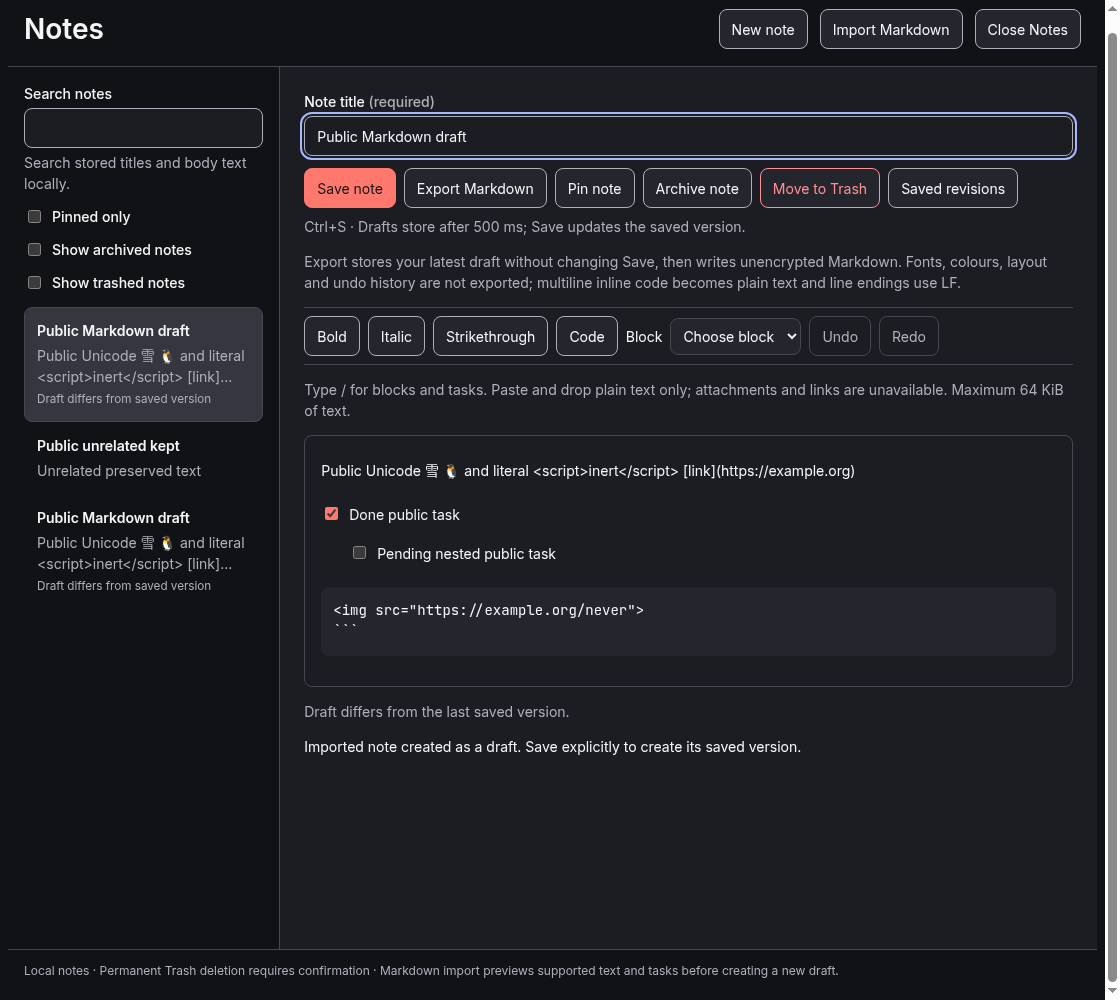
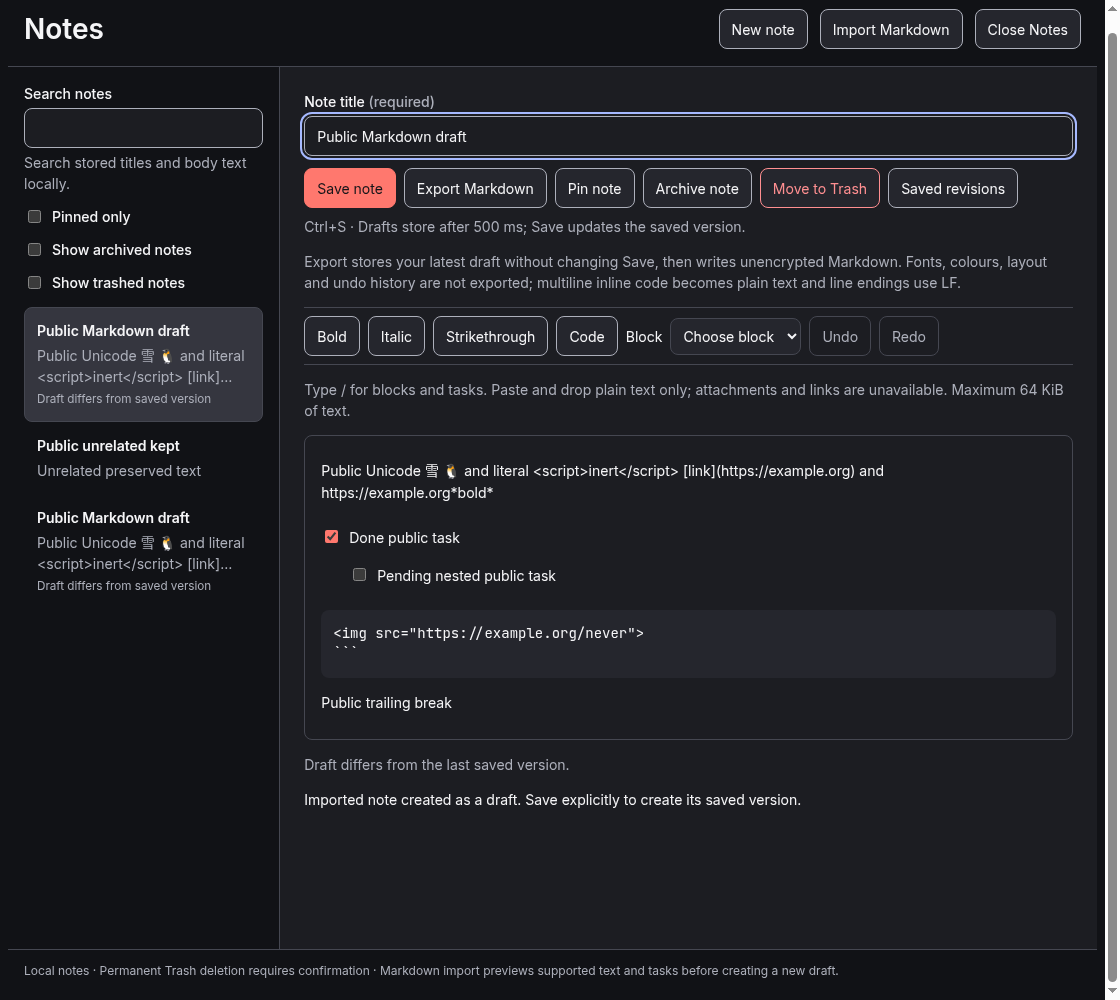
fix(notes): preserve URL escapes and terminal hard breaks on import

Changed region(s): [[0.2812, 0.682, 0.7188, 0.806], [0.2812, 0.465, 0.5625, 0.651]]

diff --git a/packages/notes/src/markdown.ts b/packages/notes/src/markdown.ts
@@ -10,7 +10,9 @@ export const NOTE_MARKDOWN_MAX_BYTES=524288;
 export const NOTE_MARKDOWN_NOTICE='Linuxcast Markdown export: preserves note text and tasks. Editor fonts, colours, layout and undo history are not exported. Multiline inline code exports as plain text. Line endings normalize to LF. This file is unencrypted.';
 class NotesMarkdownManager extends MarkdownManager{
  override renderNodeToMarkdown(node:JSONContent,parent?:JSONContent,index=0,level=0,meta:Record<string,unknown>={}):string{
-  if(node.type==='hardBreak')return '\\\n';
+  // CommonMark cannot retain a structural break at a paragraph's end. Export
+  // that terminal LF as text, without the structural break's backslash marker.
+  if(node.type==='hardBreak')return parent?.content?.slice(index+1).every(child=>child.type==='hardBreak')?'&#10;':'\\\n';
   if(node.type==='codeBlock'){const text=(node.content??[]).map(child=>child.text??'').join('').replace(/\r\n?/gu,'\n'),fence='`'.repeat(Math.max(3,...Array.from(text.matchAll(/`+/gu),match=>match[0].length+1)));return fence+String(node.attrs?.language??'')+'\n'+text+'\n'+fence;}
   if(node.type==='paragraph'||node.type==='heading'){
    const prefix=node.type==='heading'?'#'.repeat(Number(node.attrs?.level??1))+' ':'';
@@ -26,13 +28,26 @@ class NotesMarkdownManager extends MarkdownManager{
 // an autolink and adjacent text (URL&#10 + ;). Rejoin only these literal runs
 // before the maintained text handlers decode entities once. Escapes/code stay
 // separate, and explicit links are still refused by the lexer admission check.
-function literalTextTokens(tokens:MarkdownToken[]):MarkdownToken[]{
- const result:MarkdownToken[]=[];
+function literalTextTokens(tokens:MarkdownToken[],tokenizeInline:(source:string)=>MarkdownToken[]):MarkdownToken[]{
+ const result:MarkdownToken[]=[];let text='',hasUrl=false;
+ const flush=()=>{
+  if(!text)return;
+  // GFM can also split an escape pair across URL/text tokens. Rejoin the run
+  // first, then let the maintained inline lexer recognize each escape pair.
+  // Escape tokens remain separate from text to prevent double entity decoding.
+  let start=0,cursor=0;
+  if(hasUrl)while((cursor=text.indexOf('\\',cursor))!==-1){
+   const pair=tokenizeInline(text.slice(cursor,cursor+2)),escape=pair.length===1&&pair[0]?.type==='escape'?pair[0]:undefined;
+   if(escape){if(cursor>start)result.push({type:'text',text:text.slice(start,cursor)});result.push(escape);cursor+=2;start=cursor;}else cursor++;
+  }
+  if(start<text.length)result.push({type:'text',text:text.slice(start)});
+  text='';hasUrl=false;
+ };
  for(const token of tokens){
-  if(token.type==='text'&&!token.tokens||token.type==='link'&&token.raw===token.text){const previous=result.at(-1);if(previous?.type==='text'&&!previous.tokens)previous.text=(previous.text??'')+(token.text??'');else result.push({type:'text',text:token.text??''});}
-  else result.push(token);
+  if(token.type==='text'&&!token.tokens||token.type==='link'&&token.raw===token.text){text+=token.text??'';hasUrl||=token.type==='link';}
+  else {flush();result.push(token);}
  }
- return result;
+ flush();return result;
 }
 const extensions=flattenExtensions([StarterKit.configure({heading:{levels:[1,2,3]},link:false,underline:false,trailingNode:false}),TaskList,TaskItem.configure({nested:true})]).map(extension=>extension.extend({
  // Already flattened: keep each node (including nested TaskItem), without
@@ -40,7 +55,8 @@ const extensions=flattenExtensions([StarterKit.configure({heading:{levels:[1,2,3
  addExtensions:()=>[],
  ...(getExtensionField(extension,'parseMarkdown')?{parseMarkdown(token,helpers){
   if(this.name==='text')return {type:'text',text:decodeHtmlEntities(token.text||'')};
-  return this.parent!(token,{...helpers,parseInline:tokens=>helpers.parseInline(literalTextTokens(tokens)),parseChildren:tokens=>helpers.parseChildren(literalTextTokens(tokens))});
+  const tokenizeInline=helpers.tokenizeInline;if(!tokenizeInline)throw new Error('Markdown inline tokenization is unavailable.');
+  return this.parent!(token,{...helpers,parseInline:tokens=>helpers.parseInline(literalTextTokens(tokens,tokenizeInline)),parseChildren:tokens=>helpers.parseChildren(literalTextTokens(tokens,tokenizeInline))});
  }}:{}),
 }));
 const manager=new NotesMarkdownManager({extensions,markedOptions:{gfm:true},indentation:{style:'space',size:2}});

diff --git a/apps/desktop/tests/notes-markdown-import.integration.test.ts b/apps/desktop/tests/notes-markdown-import.integration.test.ts
@@ -16,7 +16,7 @@ const root=resolve(dirname(fileURLToPath(import.meta.url)),'../../..'),executabl
 let application:ElectronApplication|undefined,temporary='';
 afterEach(async()=>{if(application){const child=application.process(),timer=setTimeout(()=>{if(child.exitCode===null)child.kill('SIGKILL');},3000);try{await application.close().catch(()=>{if(child.exitCode===null)child.kill('SIGKILL');});}finally{clearTimeout(timer);}}application=undefined;if(temporary)rmSync(temporary,{recursive:true,force:true});});
 const paragraph=(text:string):NoteNode=>({type:'paragraph',content:[{type:'text',text}]});
-const body:NoteContent['document']={type:'doc',content:[paragraph('\nPublic Unicode 雪 🐧 and literal <script>inert</script> [link](https://example.org)\n'),{type:'taskList',content:[{type:'taskItem',attrs:{checked:true},content:[paragraph('Done public task'),{type:'taskList',content:[{type:'taskItem',attrs:{checked:false},content:[paragraph('Pending nested public task')]}]}]}]},{type:'codeBlock',attrs:{language:'text'},content:[{type:'text',text:'<img src="https://example.org/never">\n```'}]}]};
+const body:NoteContent['document']={type:'doc',content:[paragraph('\nPublic Unicode 雪 🐧 and literal <script>inert</script> [link](https://example.org) and https://example.org*bold*\n'),{type:'taskList',content:[{type:'taskItem',attrs:{checked:true},content:[paragraph('Done public task'),{type:'taskList',content:[{type:'taskItem',attrs:{checked:false},content:[paragraph('Pending nested public task')]}]}]}]},{type:'codeBlock',attrs:{language:'text'},content:[{type:'text',text:'<img src="https://example.org/never">\n```'}]},{type:'paragraph',content:[{type:'text',text:'Public trailing break'},{type:'hardBreak'}]}]};
 async function stored(page:Page,id:string){return page.evaluate(async id=>{const reply=await(window as unknown as {linuxcastNotes:NotesApi}).linuxcastNotes.get(id);if(!reply.ok)throw new Error('Stored note unavailable.');return reply.value;},id);}
 async function records(page:Page){return page.evaluate(async()=>{const reply=await(window as unknown as {linuxcastNotes:NotesApi}).linuxcastNotes.list({query:''});if(!reply.ok)throw new Error('Stored list unavailable.');return reply.value.records;});}
 it('exports, reviews and separately imports actual Markdown text/tasks through Notes, preserving unrelated sources across root search and restart',async()=>{

diff --git a/packages/notes/tests/import-markdown.test.ts b/packages/notes/tests/import-markdown.test.ts
@@ -4,6 +4,14 @@ import type {NoteContent,NoteNode} from '@linuxcast/contracts';
 import {exportNoteMarkdown,importNoteMarkdown,NOTE_MARKDOWN_MAX_BYTES,NOTE_MARKDOWN_NOTICE} from '../src/markdown.ts';
 const paragraph=(text:string):NoteNode=>({type:'paragraph',content:[{type:'text',text}]});
 const tasks=(node:NoteNode):boolean[]=>[...(node.type==='taskItem'?[node.attrs!.checked as boolean]:[]),...(node.content??[]).flatMap(tasks)];
+it.each(['https://example.org*bold*','https://example.org[brackets]','https://example.org`code`','https://example.org\\path\\','https://example.org\\*literal*','www.example.org*literal*','public@example.org*literal*'])('preserves escaped punctuation consumed by bare URLs: %j',text=>{
+ const note:NoteContent={title:'Public URL punctuation',document:{type:'doc',content:[paragraph(text)]}},before=structuredClone(note),exported=exportNoteMarkdown(note),result=importNoteMarkdown(exported);
+ expect(notePlainText(result.document)).toBe(text);expect(exportNoteMarkdown(result)).toBe(exported);expect(note).toEqual(before);
+});
+it.each<NoteNode[]>([[{type:'text',text:'End'},{type:'hardBreak'}],[{type:'hardBreak'}],[{type:'hardBreak'},{type:'hardBreak'}],[{type:'text',text:'https://example.org*literal*'},{type:'hardBreak'}],[{type:'text',text:'End\n'},{type:'hardBreak'},{type:'hardBreak'}]])('preserves trailing and break-only editor paragraphs: %j',(...content)=>{
+ const note:NoteContent={title:'Public trailing breaks',document:{type:'doc',content:[{type:'paragraph',content}]}},before=structuredClone(note),exported=exportNoteMarkdown(note),result=importNoteMarkdown(exported);
+ expect(notePlainText(result.document)).toBe(notePlainText(note.document));expect(notePlainText(importNoteMarkdown(exportNoteMarkdown(result)).document)).toBe(notePlainText(note.document));expect(note).toEqual(before);
+});
 it.each(['# Empty note','# Leaves\n\n---\n\nfirst\\\nsecond','# Tasks\n\n- [x] Done\n  - [ ] Pending','# Code\n\n```text\n&amp; &#10; <script>literal</script>\n```'])('produces a JSON-safe actual notes.write repository request for %j',source=>{
  const content=importNoteMarkdown(source),request={schemaVersion:1,requestId:'public-import-write',method:'notes.write',params:{id:'11111111-1111-4111-8111-111111111111',expectedRevision:0,action:'draft',content}};
  expect(parseRepositoryRequest(request,notesRepositoryContracts)).toEqual(request);

diff --git a/docs/implementation/tasks/U1-01.md b/docs/implementation/tasks/U1-01.md
@@ -81,6 +81,10 @@ Shared contracts, dependency manifests, lockfiles, migration numbering and task 
     Outcome: Partial: imported draft uses exact owner receipt/stable UUID, preserves outgoing saved/draft/flags, supports edit/Save/root navigation and persists through Quit/restart. Actual production import5.302s and retained Notes crash/recovery29.636s PASS. Full task/native/release acceptance pending.
     Platform/backend: Pop!_OS22.04 amd64/Linux7.1.1; pinned Node24.22.1/Bun1.4.4/Electron45/SQLite3.53.4/Tiptap3.32.0; owned private XvfbX11 and Chromium fixtures, native chooser choices instrumented. Not Debian/session/nativeAT acceptance.
     Reference: apps/desktop/evidence/notes-markdown-import-application.md; packages/notes/evidence/markdown-import-ui.md; PR77 https://github.com/ianwijma/linuxcast/pull/77
+  - Command/check: `Final mapped U1-01 unit/contracts/security/UI/integration;57 parser/export checks; independent b3ea4d4 review and coordinator regression disposition`.
+    Outcome: Partial: independent SOL6.1/high review found two P2 roundtrip bugs; both reproduced/fixed with12new cases,11initiallyred. URL-consumed/split escape pairs use maintained lexer; terminal hard breaks preserve LF text.481unit/36contract/258security/88browser/40integration PASS, actualimport5.237s includes both findings and unchanged byteidentical secondexport/exactowner/restart assertions.12publiccaptures axe0;741historicalPNG unchanged. No second independent clean review or full task/native/release acceptance claimed.
+    Platform/backend: Pop!_OS22.04 amd64/Linux7.1.1; Node24.22.1/Bun1.4.4/Electron45/SQLite3.53.4/Tiptap3.32.0; privateXvfbX11 and Chromium. Native chooser choices instrumented; not supported Debian/session/nativeAT acceptance.
+    Reference: apps/desktop/evidence/notes-markdown-import-application.md; PR77 https://github.com/ianwijma/linuxcast/pull/77
 - [ ] **pending** `U1-01-AC02` — Markdown round trip preserves text/tasks and declares unsupported styling.
   - Command/check: `bun run test:unit -- U1-01; LINUXCAST_PRIVATE_DISPLAY=1 xvfb-run -a bun run test:integration -- U1-01`.
     Outcome: Partial: explicit latest-draft Markdown export writes real private file with unchanged saved version, no overwrite and cancellation; 12 bounded serializer text/task fixtures pass. Full application import/Markdown roundtrip and native chooser acceptance remain pending. Export integrated in PR58; full application import/roundtrip acceptance remains pending.
@@ -90,6 +94,10 @@ Shared contracts, dependency manifests, lockfiles, migration numbering and task 
     Outcome: Partial: actual application export/import/re-export preserves Unicode, boundary LF, escaped HTML/link literals, checked/nested unchecked tasks and code; second export byte-identical and unsupported editor styling disclosed before Create. Strict notes.write JSON-envelope and combined escaping regressions pass. Broader Markdown/native chooser/task acceptance remains pending.
     Platform/backend: Pop!_OS22.04 amd64/Linux7.1.1; pinned Node24.22.1/Bun1.4.4/Electron45/SQLite3.53.4/Tiptap3.32.0; owned private XvfbX11 and Chromium fixtures, native chooser choices instrumented. Not Debian/session/nativeAT acceptance.
     Reference: apps/desktop/evidence/notes-markdown-import-application.md; packages/notes/evidence/markdown-import-ui.md; PR77 https://github.com/ianwijma/linuxcast/pull/77
+  - Command/check: `Final mapped U1-01 unit/contracts/security/UI/integration;57 parser/export checks; independent b3ea4d4 review and coordinator regression disposition`.
+    Outcome: Partial: independent SOL6.1/high review found two P2 roundtrip bugs; both reproduced/fixed with12new cases,11initiallyred. URL-consumed/split escape pairs use maintained lexer; terminal hard breaks preserve LF text.481unit/36contract/258security/88browser/40integration PASS, actualimport5.237s includes both findings and unchanged byteidentical secondexport/exactowner/restart assertions.12publiccaptures axe0;741historicalPNG unchanged. No second independent clean review or full task/native/release acceptance claimed.
+    Platform/backend: Pop!_OS22.04 amd64/Linux7.1.1; Node24.22.1/Bun1.4.4/Electron45/SQLite3.53.4/Tiptap3.32.0; privateXvfbX11 and Chromium. Native chooser choices instrumented; not supported Debian/session/nativeAT acceptance.
+    Reference: apps/desktop/evidence/notes-markdown-import-application.md; PR77 https://github.com/ianwijma/linuxcast/pull/77
 - [ ] **pending** `U1-01-UI` — Relevant design states and keyboard/accessibility paths are covered for user-facing changes.
   - Applies when: This task introduces or changes user-facing behaviour.
   - Command/check: `bun run test:ui -- U1-01; bun run test:unit -- U1-01`.
@@ -136,6 +144,10 @@ Shared contracts, dependency manifests, lockfiles, migration numbering and task 
     Outcome: Partial: all88 mapped browser cases PASS together43.1s, including8import cases covering readonly review, Cancel/Escape, once-only Create, pending/unknown/manual recovery/unavailable/200percent/focus. Eight component+fouractual dark/light captures axe0. Independent final review pending; nativeAT/highcontrast/session acceptance remains pending.
     Platform/backend: Pop!_OS22.04 amd64/Linux7.1.1; pinned Node24.22.1/Bun1.4.4/Electron45/SQLite3.53.4/Tiptap3.32.0; owned private XvfbX11 and Chromium fixtures, native chooser choices instrumented. Not Debian/session/nativeAT acceptance.
     Reference: apps/desktop/evidence/notes-markdown-import-application.md; packages/notes/evidence/markdown-import-ui.md; PR77 https://github.com/ianwijma/linuxcast/pull/77
+  - Command/check: `Final mapped U1-01 unit/contracts/security/UI/integration;57 parser/export checks; independent b3ea4d4 review and coordinator regression disposition`.
+    Outcome: Partial: independent SOL6.1/high review found two P2 roundtrip bugs; both reproduced/fixed with12new cases,11initiallyred. URL-consumed/split escape pairs use maintained lexer; terminal hard breaks preserve LF text.481unit/36contract/258security/88browser/40integration PASS, actualimport5.237s includes both findings and unchanged byteidentical secondexport/exactowner/restart assertions.12publiccaptures axe0;741historicalPNG unchanged. No second independent clean review or full task/native/release acceptance claimed.
+    Platform/backend: Pop!_OS22.04 amd64/Linux7.1.1; Node24.22.1/Bun1.4.4/Electron45/SQLite3.53.4/Tiptap3.32.0; privateXvfbX11 and Chromium. Native chooser choices instrumented; not supported Debian/session/nativeAT acceptance.
+    Reference: apps/desktop/evidence/notes-markdown-import-application.md; PR77 https://github.com/ianwijma/linuxcast/pull/77
 - [ ] **pending** `U1-01-PRIVACY` — No secrets/private content enter fixtures, diagnostics or screenshots.
   - Command/check: `bun run test:security -- U1-01; production Notes integration privacy assertions and capture/source inspection`.
     Outcome: Partial: public synthetic-onlyfixtures/captures, owner sourceprivacy/export separation and literalno-network/noexecution assertions PASS; remaining task scope still pending.
@@ -181,6 +193,10 @@ Shared contracts, dependency manifests, lockfiles, migration numbering and task 
     Outcome: Partial: selected source path never reaches renderer; closed bounded local parser, no resources/rendererHTTP(S), no sourcepath/content/UUID in command usage export, exact source/unrelated records preserved. Public synthetic fixtures/captures;258security and actual application privacy checks PASS. Remaining task/release privacy scope pending.
     Platform/backend: Pop!_OS22.04 amd64/Linux7.1.1; pinned Node24.22.1/Bun1.4.4/Electron45/SQLite3.53.4/Tiptap3.32.0; owned private XvfbX11 and Chromium fixtures, native chooser choices instrumented. Not Debian/session/nativeAT acceptance.
     Reference: apps/desktop/evidence/notes-markdown-import-application.md; packages/notes/evidence/markdown-import-ui.md; PR77 https://github.com/ianwijma/linuxcast/pull/77
+  - Command/check: `Final mapped U1-01 unit/contracts/security/UI/integration;57 parser/export checks; independent b3ea4d4 review and coordinator regression disposition`.
+    Outcome: Partial: independent SOL6.1/high review found two P2 roundtrip bugs; both reproduced/fixed with12new cases,11initiallyred. URL-consumed/split escape pairs use maintained lexer; terminal hard breaks preserve LF text.481unit/36contract/258security/88browser/40integration PASS, actualimport5.237s includes both findings and unchanged byteidentical secondexport/exactowner/restart assertions.12publiccaptures axe0;741historicalPNG unchanged. No second independent clean review or full task/native/release acceptance claimed.
+    Platform/backend: Pop!_OS22.04 amd64/Linux7.1.1; Node24.22.1/Bun1.4.4/Electron45/SQLite3.53.4/Tiptap3.32.0; privateXvfbX11 and Chromium. Native chooser choices instrumented; not supported Debian/session/nativeAT acceptance.
+    Reference: apps/desktop/evidence/notes-markdown-import-application.md; PR77 https://github.com/ianwijma/linuxcast/pull/77
 
 ## Validation
 
@@ -224,6 +240,7 @@ Coordinator records the implementation PR/commit, check outcomes, desktop/backen
 - Next bounded application increment selected after merged PR76: native selected local Markdown file -> bounded read/closed parser -> readonly title/body/tasks review -> no-effect Cancel or separate Create imported note through existing normal owner write -> edit/Save/export/search/restart. Existing Notes/Tiptap/storage/shared UI reused, no new dependencies/migrations/services. Coordinator codex/notes-markdown-import and existing GPT6.1SOL/high author codex/notes-markdown-import-ui base09de566. Full task/prerequisites/native chooser/session/AT/attachments/release acceptance remains pending; selection is not implementation evidence.
 - 31October2026 thread handoff: consolidated latest coordinator+author Markdown import changes on codex/notes-markdown-import/base09de566. Not merge-ready: parser optional undefined properties fail storage JSON request validation on actual Create; combined escaped literal HTML/link paragraph can retain trailing LF as literal &#10;. Component results do not close these actual failures. See docs/implementation/HANDOFF.md and handoff/markdown-import-source-manifest.json. All4U1criteria remain pending; no task completion claimed. No agent remains running; next thread fixes these bounded application issues, verifies/reviews and merges normally before more feature work.
 - 31October2026 PR77 continuation closes both handoff application blockers with exact storage-envelope and combined entity/HTML/link/LF regressions, using public Tiptap APIs and unchanged strict storage/security contracts. Final mapped469unit/36contracts/258security/88browser/40integration PASS, actualimport5.302s/retainedNotes29.636s/wholeTrash5.353s; capture-only framing rerun4.98sPASS.12newpubliccaptures axe0,741historicalPNG unchanged. FullNodeTS/scopedlint/plan/diffPASS. Independent final source/capture/evidence review and signed publication/currentheadCI/reviews/normalmerge pending. All4U1criteria and complete local1.0 remain unfinished. See apps/desktop/evidence/notes-markdown-import-application.md.
+- 31October2026 completed independent review of signedb3ea4d4:291focusedchecksPASS,12newcaptures visuallyclean, no additional IPC/lifecycle/receipt/focus/schema objections, two P2 roundtrip changesrequested. Coordinator reproduced/fixed both (URLadjacentescapes and terminalhardbreaks),12newsemanticcases/11initialred;57focusedPASS. Finalmapped481unit1.92s/36contracts0.325s/258security1.07s/88browser42.7s/40integration44.19sPASS; actualimport5.237s strengthens fixture without weakening owner/source/byte-identicalreexport/restart/privacy assertions. Fourupdatedactualcaptures axe0/coordinatorinspected,8componentunchangedfromindependentreview,741historicalPNG unchanged; fullTS/scopedlint/plan/gate21/diffPASS. No second independent clean review claimed; no agents remain running. Final signed publication/currentheadCI/normalmergepending; all4U1criteria remainpending.
 
 ## Outstanding limitations
 

diff --git a/docs/implementation/PROGRESS.md b/docs/implementation/PROGRESS.md
@@ -1,46 +1,44 @@
 # Coordinator checkpoint — 31 October 2026
 
-The complete agreed local1.0 objective remains unfinished. Finish PR77 before
-starting another feature. All subagents use GPT-6.1 SOL/high. Normal signed
-commit/push/PR/merge authorization persists; preserve the 1Password signing setup.
+The complete agreed local1.0 goal remains unfinished. Finish PR77 before starting
+another feature. All subagents GPT-6.1 SOL/high; normal signed publication/merge
+is authorized. Preserve the unchanged 1Password signing setup.
 
-Active: U1-01 bounded Markdown import on `codex/notes-markdown-import` in
-`.worktrees/linuxcast-notes-markdown-import`, base merged PR76/develop09de566.
-Draft PR: https://github.com/ianwijma/linuxcast/pull/77. The original author tree
-`.worktrees/linuxcast-notes-markdown-import-ui` remains a reference.
+Active U1-01: bounded selected-file Markdown review/import as a separate owner
+draft, branch `codex/notes-markdown-import`, existing worktree
+`.worktrees/linuxcast-notes-markdown-import`, base mergedPR76/develop09de566.
+PR77 https://github.com/ianwijma/linuxcast/pull/77. No new feature has started.
+All four U1 acceptance criteria stay pending; do not mark local1.0 complete.
 
-Both handoff blockers are fixed: permitted optional undefined node fields are
-removed after closed bounded validation and JSON-wire validation remains strict;
-lexer-split bare-URL/entity literal runs are rejoined before exactly-once text
-entity decoding through public Tiptap hooks. Literal entities/code and independent
-title/body limits remain covered. No storage guard, security boundary, dependency,
-manifest/lockfile or migration changed. All four U1 criteria remain pending.
+Both original handoff blockers were fixed on signed b3ea4d4. The isolated
+GPT-6.1 SOL/high independent source/capture/evidence review completed:291focused
+checks pass,12newcaptures visually clean, no additional boundary/lifecycle/receipt/
+focus/schema findings; two P2 semantic roundtrip bugs requested changes. The result
+was initially not collected and the old green PR watch was removed when the user
+asked about it. No independent review is still running.
 
-Final assembled mapped checks PASS:469unit/36contracts/258security/88browser/
-40integration. Actual sandboxed Electron import5.302s, retainedNotes29.636s,
-wholeTrash5.353s; new import covers review/Cancel/Create, exact text/tasks/second
-export, edit/Save, launcher keyboard navigation, Quit/restart and exact unrelated
-preservation. Eight component and four actual public captures have axe0; all741
-historical PNGs byte-identical to develop. Full pinned TypeScript/scoped lint pass.
-Detailed evidence: `apps/desktop/evidence/notes-markdown-import-application.md`.
-The earlier failed application and intermediate continuation attempts are retained
-in evidence; the historical HANDOFF.md does not describe current blockers.
+The coordinator reproduced and fixed both findings: URL-consumed escape pairs
+(including a pair split across URL/text tokens) now use the maintained public inline
+lexer, kept separate from entity-decoded text; terminal editor hard breaks export
+as text LF without a structural backslash marker.57focused parser/export checks
+pass, including12new cases (11red before fixes). Actual production fixture now
+includes URL-adjacent punctuation and a terminal hard break without weakening its
+byte-identical second export, exact owner/source preservation or restart assertions.
 
-Signed source head b3ea4d4ec590ccbf7dfb749110c55d364c0de1cd is pushed and its
-signature cryptographically verified against the configured public key. An isolated
-GPT-6.1 SOL/high read-only final source/capture/evidence review is running.
-The first pushed planning CI41182245139 failed two docs-only fixture checks because
-the new HANDOFF local report link reached outside the copied planning tree. The
-link now uses the immutable report URL; the same21gate tests pass locally, with no
-validator or application assertion changes. All20changedTS lint passes.
+Final mapped PASS:481unit1.92s/36contracts0.325s/258security1.07s/88browser42.7s/
+40integration44.19s; actualimport5.237s/retainedNotes29.034s/wholeTrash5.218s.
+Full pinned TypeScript/scoped lint pass. All741 historical PNGs unchanged; four
+updated actual dark/light captures axe0 and coordinator inspected, eight component
+captures unchanged from independent visual review. No second independent clean
+review is claimed; the two bounded findings are addressed with parent validation.
+Evidence: `apps/desktop/evidence/notes-markdown-import-application.md`.
 
-Next: finish independent review, inspect final-head CI/reviews/rules, ready PR77,
-then normal expected-head merge.
-After integration record its merge, refresh dependencies and select the next
-bounded application increment. No new feature has started.
+Planning CI41182395321 passed signed905a0a9. Its earlier fixture-link failure was
+fixed by using an immutable report URL, preserving validators/assertions. Publish
+the final reviewed-finding fixes, inspect new-head CI/reviews/rules, ready and merge
+normally with expected-head matching. Then record integration and select next work.
 
-Full Notes/attachments/remaining Markdown coverage, D1/native prerequisites,
-Debian13 GNOME/KDE Wayland/X11/nativeAT/highcontrast/performance/package/release
-acceptance remain required. Xvfb/Chromium and instrumented chooser choices are not
-supported-session/native chooser acceptance. Registry8done/20inprogress/69planned;
-acceptance56passed/325pending/8justifiedN/A. Do not mark the full objective complete.
+Full Notes/attachments/remainingMarkdown, D1/native prerequisites, Debian13 GNOME/
+KDE Wayland/X11/nativeAT/highcontrast/performance/package/release acceptance remains
+required. Xvfb/Chromium and instrumented chooser choices are partial evidence only.
+Registry8done/20inprogress/69planned;56passed/325pending/8justifiedN/A.

diff --git a/apps/desktop/evidence/notes-markdown-import-application.md b/apps/desktop/evidence/notes-markdown-import-application.md
@@ -95,7 +95,31 @@ Eight component and four actual dark/light review/created captures have axe0.
 All741 historical PNGs match develop byte-for-byte after restoring test recaptures.
 New actual captures are `notes-markdown-import-application-{review,created}-{dark,light}.png`;
 component captures/report are under `packages/notes/evidence/markdown-import-*`.
-Final independent source/capture/evidence review and signed publication are pending.
+Independent review of signed source b3ea4d4 (GPT-6.1 SOL/high, isolated read-only
+checkout) inspected all12 captures and found no additional IPC/lifecycle/receipt/
+reentrancy/focus/schema or visual issues. Its291 focused checks passed, but it
+reported two P2 text regressions: escapes swallowed by bare-URL tokens, and terminal
+editor hard breaks changed into literal entities. The coordinator reproduced both
+with12 new semantic cases (11 initially failed), then fixed them using the public
+inline lexer for consumed escape pairs and terminal-LF serialization without a
+structural backslash. Escape pairs split across URL/text tokens are joined before
+lexing; escape nodes remain separate from entity-decoded text. Trailing hard breaks
+export as text LF because CommonMark has no terminal structural break representation.
+This preserves text/tasks, not the editor node's exact representation.
+
+Final review disposition: both bounded findings addressed and parent-validated;
+no claim of a second independent clean-source review. The actual production fixture
+now includes URL-adjacent literal punctuation and a trailing hard break, preserving
+all existing byte-identical second-export/source/owner/restart assertions. After
+these fixes:57 focused parser/export checks PASS0.562s;481mapped units PASS1.92s;
+36contracts PASS0.325s;258security PASS1.07s;88browser PASS42.7s;40integration
+PASS44.19s (actual import5.237s, retainedNotes29.034s, wholeTrash5.218s). Full pinned
+TypeScript and scoped lint pass. The first typecheck caught an optional helper type
+and an incorrect test generic; both corrected without weakening runtime admission.
+All741 historical captures restored byte-identical; four updated actual captures
+have axe0 and coordinator visual inspection, eight unchanged component captures
+retain the independent visual review. Signed publication/current-head CI/merge
+remain pending. These results supersede earlier final-run counts above.
 
 ## Partial acceptance and limitations
 

diff --git a/docs/implementation/HANDOFF.md b/docs/implementation/HANDOFF.md
@@ -1,7 +1,8 @@
 # Historical Linuxcast handoff — 31 October 2026
 
 > Continuation update: both application blockers below are fixed and the assembled
-> checks now pass (469 unit,36 contract,258 security,88 browser,40 integration).
+> checks now pass (481 unit,36 contract,258 security,88 browser,40 integration).
+> Two later independent-review roundtrip findings are also fixed and validated;
 > See [current application evidence](https://github.com/ianwijma/linuxcast/blob/b3ea4d4ec590ccbf7dfb749110c55d364c0de1cd/apps/desktop/evidence/notes-markdown-import-application.md)
 > and [PROGRESS.md](PROGRESS.md) for current publication/review state. The remainder
 > of this file preserves the original handoff and its historical failures.

diff --git a/packages/notes/evidence/markdown-import-ui.md b/packages/notes/evidence/markdown-import-ui.md
@@ -1,4 +1,10 @@
 # Markdown import UI and parser — component history
+> Latest review disposition: independent review of b3ea4d4 found two further P2
+> roundtrip bugs (URL-adjacent escape pairs and terminal hard breaks). Both are
+> reproduced and fixed; final481unit/36contract/258security/88browser/40integration
+> pass, including the strengthened actual app fixture. Full disposition and honest
+> initial failures are in the current application evidence. All task gates remain.
+
 > Continuation update — 31 October 2026: both later application blockers are now
 > fixed. Final assembled checks pass:469 unit/36 contract/258 security/88 browser/
 > 40 integration, including actual sandboxed Electron import/create/re-export/Save/
